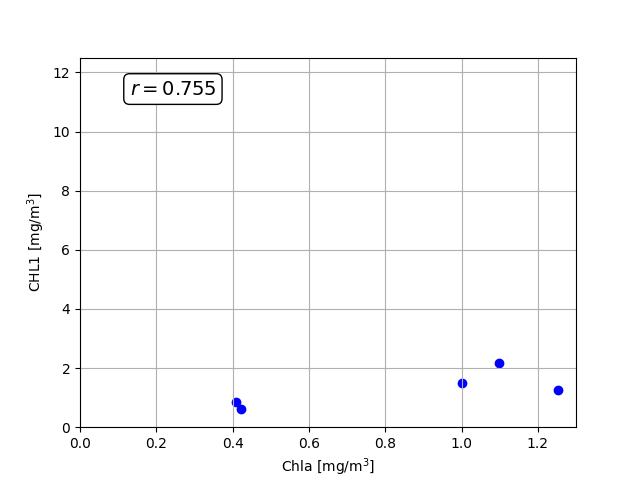
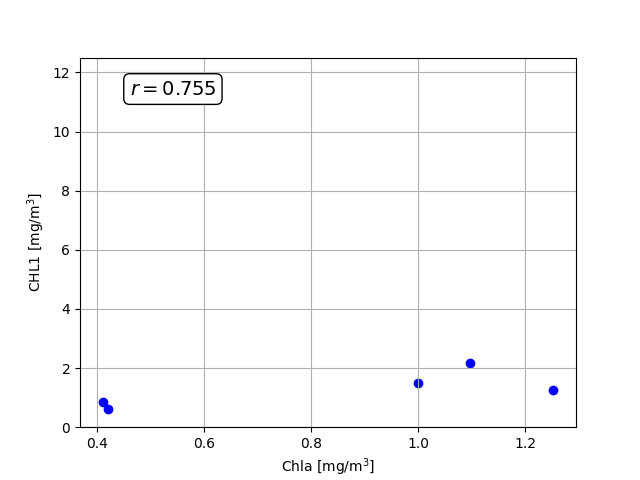
changed x limit

diff --git a/assignment10/correlate.py b/assignment10/correlate.py
@@ -13,7 +13,7 @@ fig, ax = plt.subplots()
 ax.scatter(df["Chla_[mg/m3]_ref"], df["CHL1_mean_mean"], color='blue')
 ax.set_xlabel(r"Chla [mg/m$^3$]")
 ax.set_ylabel(r"CHL1 [mg/m$^3$]")
-ax.set_xlim(0,1.3)
+#ax.set_xlim(0,1.3)
 ax.set_ylim(0,12.5)
 ax.annotate(fr"$r = {r}$", xy=(0.1,0.9),xycoords='axes fraction', fontsize=14,bbox=dict(facecolor='white', edgecolor='black', boxstyle='round,pad=0.3'))
 ax.grid()
@@ -27,7 +27,7 @@ fig, ax = plt.subplots()
 ax.scatter(df["Chla_[mg/m3]_ref"], df["CHL1_mean_mean"], color='blue')
 ax.set_xlabel(r"Chla [mg/m$^3$]")
 ax.set_ylabel(r"CHL1 [mg/m$^3$]")
-ax.set_xlim(0,1.3)
+#ax.set_xlim(0,1.3)
 ax.grid()
 ax.set_ylim(0,3)
 
